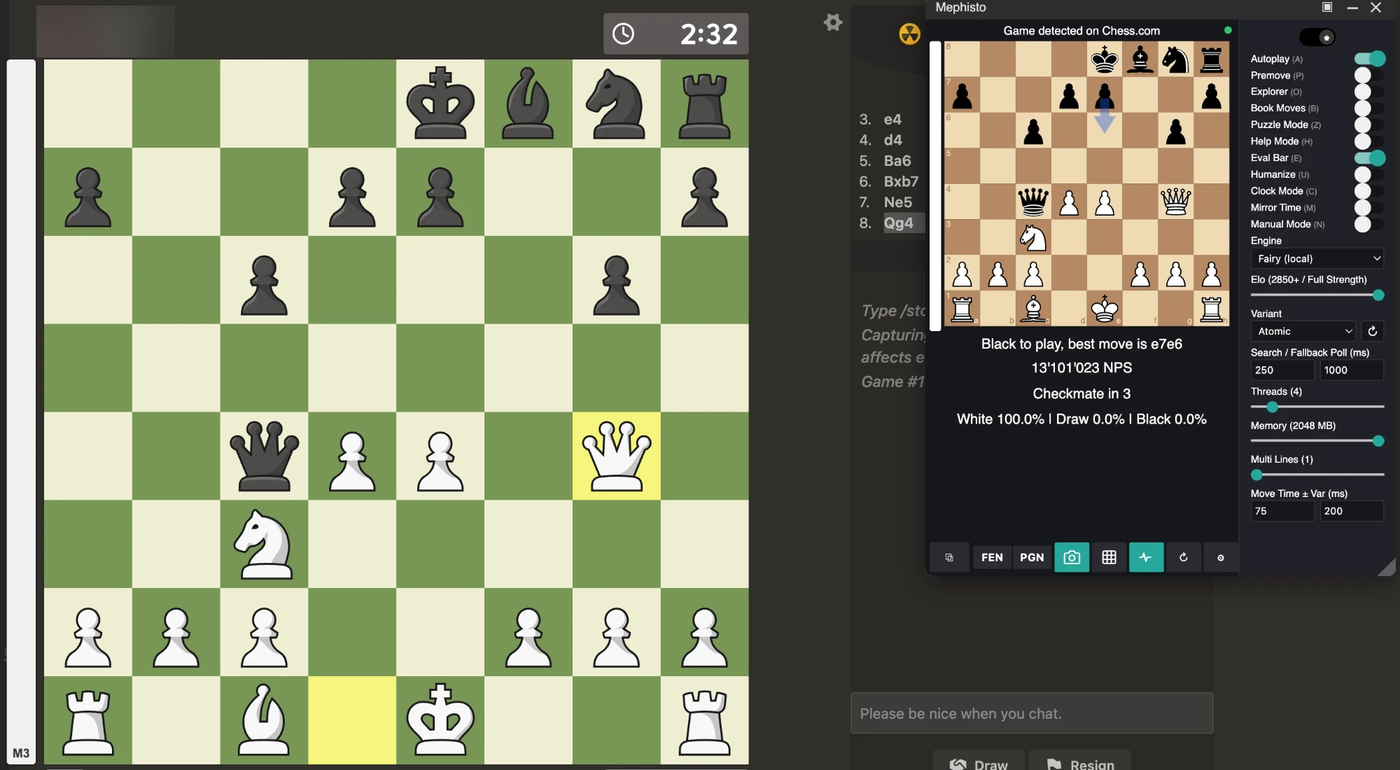
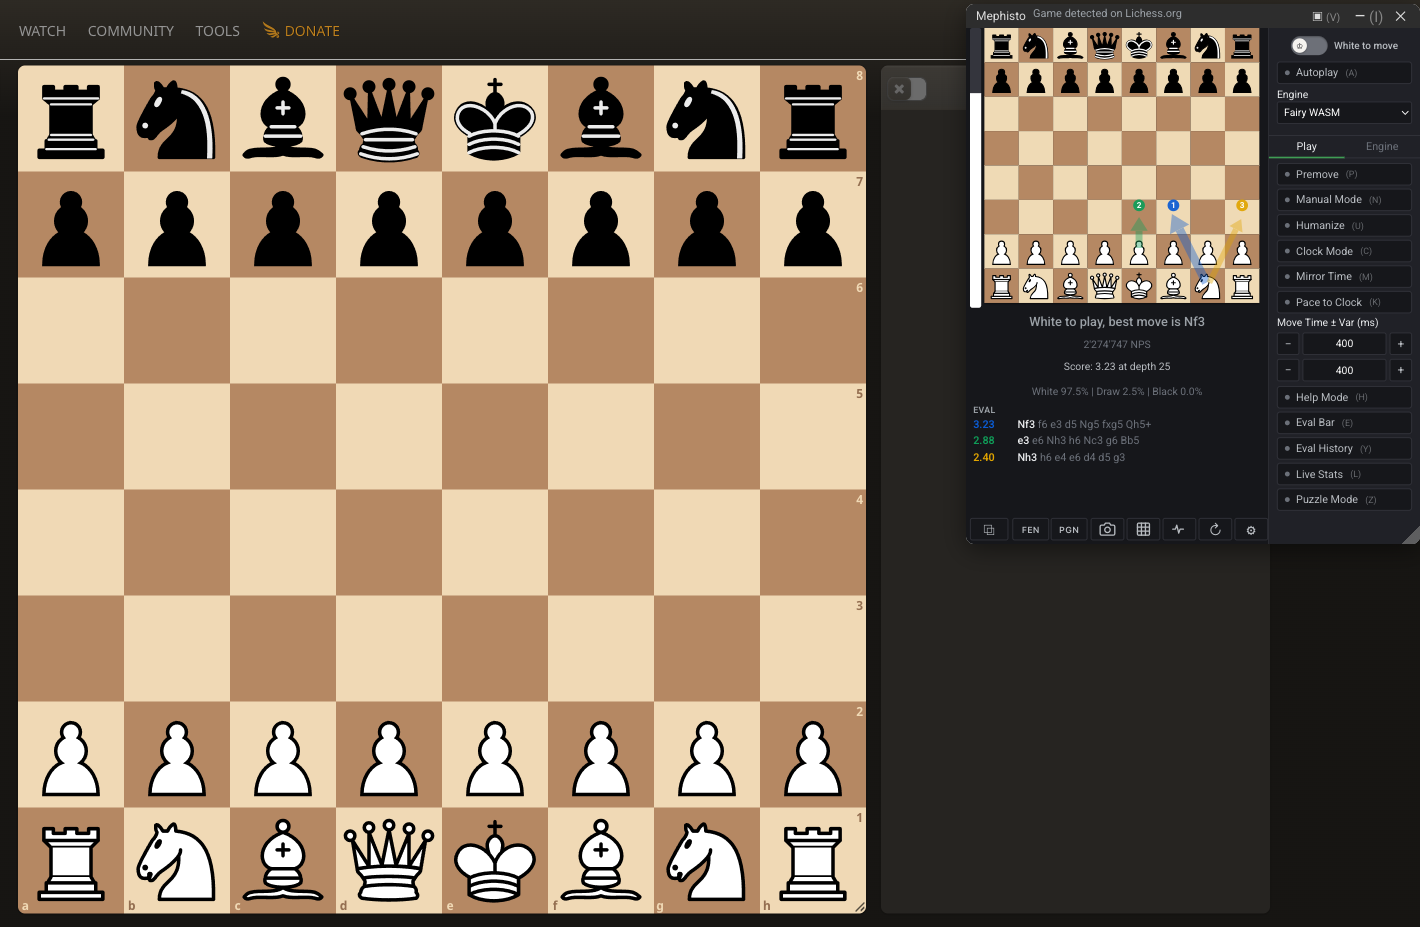
Correct the engine table, and refresh two screenshots
The Stockfish rows still described the lineup from before 3.1.308: "Stockfish dev
NNUE" is Stockfish 19, the small net is now 19's rather than 18's, and 18 is its
own entry kept so a review can be repeated against the engine that produced it.

The panel shots were from early August and 30 releases old. analysis-lines and
variants are re-taken from the running build; the hero shot now shows five
candidate lines with five arrows, which is what the board actually draws since
3.1.313. Every full-width image is now sized rather than shown at the reader's
full column width.

README.md: Stockfish 19 / 19 Small / 18 rows; every bare image becomes a sized img
docs/analysis-lines.png: re-taken, five lines and five arrows
docs/variants.png: re-taken on the current panel

Type: docs

diff --git a/README.md b/README.md
@@ -18,7 +18,7 @@ move on the board or plays it for you with human timing. It also reviews finishe
 
 Click the toolbar icon for a floating panel that stays open while you play.
 
-![Analysis with five candidate lines drawn on the board](docs/analysis-lines.png)
+<img src="docs/analysis-lines.png" alt="Analysis with five candidate lines drawn on the board" width="82%">
 
 [Fair play](#fair-play---read-this-first) · [Install](#install) · [Engines](#engines) · [Features](#features) ·
 [Sites](#supported-sites) · [Settings](#settings-reference) · [Footprint](#page-footprint) · [Roadmap](#roadmap)
@@ -106,8 +106,9 @@ entries are the exception, and they are opt-in.
 
 | Engine | Notes |
 | --- | --- |
-| **Stockfish dev NNUE** | Latest development build. Default. |
-| **Stockfish 18 / 18 Small NNUE** | Full dual-net build (large net ships split, stitched at load), or the lighter net. |
+| **Stockfish 19 NNUE** | The default. The full dual-net build; the large net ships split and is stitched at load. |
+| **Stockfish 19 Small NNUE** | The same engine on the small net - about 1 MB against 99, for a machine or a connection that cannot take the full one. |
+| **Stockfish 18 NNUE** | The previous mainline, kept so a review can be repeated against the engine that produced it. |
 | **Stockfish 11 HCE** | Classical eval, no NNUE - light and fast. |
 | **Fairy-Stockfish 14 NNUE** | Required for [variants](#variants); each has its own bundled net. |
 | **Maia-1** | The original Maia nets, one per rating band (**1100-1900**, plus **2200**). |
@@ -161,7 +162,7 @@ have nets but the bundled chess.js can't replay them, so the panel says so rathe
 
 <img src="docs/multiple-lines.png" alt="Three candidate lines, each with its own coloured arrow" width="49%"> <img src="docs/opening-explorer.png" alt="The opening explorer, with each book move drawn on the board" width="49%">
 
-![Reading a position straight off a YouTube video](docs/read-from-screen.png)
+<img src="docs/read-from-screen.png" alt="Reading a position straight off a YouTube video" width="70%">
 
 *Three candidate lines · the explorer's book moves · reading a position off a YouTube video, naming its
 least-confident squares.*
@@ -208,7 +209,7 @@ API. **Nothing leaves your machine** during the review - the search runs in the 
   mix is defined in exactly those bands, so counting them gives the mix that reproduces that player. Measured, rather
   than guessed at with sliders.
 
-![The game review page](docs/game-review.png)
+<img src="docs/game-review.png" alt="The game review page" width="70%">
 
 ### chess.com Game Review
 
@@ -318,7 +319,7 @@ free. Nothing about the software changed, the measurement did.
 
 ### Humanize
 
-![The move mix and move-quality thresholds, with live accuracy estimates](docs/humanize.png)
+<img src="docs/humanize.png" alt="The move mix and move-quality thresholds, with live accuracy estimates" width="70%">
 
 Seven shares set how often it plays the top move, a 2nd/3rd/4th line, an inaccuracy, a mistake or a blunder, with
 per-category centipawn thresholds and a live [Lichess accuracy](https://lichess.org/page/accuracy) estimate of the
@@ -338,7 +339,7 @@ shortens the *simulated* delay when the clock gets short, never lengthens it.
 
 <img src="docs/puzzle-database.png" alt="3999 - as high as the Lichess puzzle rating goes" width="49%"> <img src="docs/hotkeys.png" alt="The hotkeys page, each action rebindable" width="49%">
 
-![Hardest (+600) puzzles solved back to back, from the database rather than searched](docs/puzzle-database.gif)
+<img src="docs/puzzle-database.gif" alt="Hardest (+600) puzzles solved back to back, from the database rather than searched" width="70%">
 
 *3999 is the ceiling · every action rebindable · hardest (+600) puzzles back to back, from the database rather than
 searched ([full clip](docs/puzzle-database.mp4)).*
@@ -396,7 +397,7 @@ the position on Lichess, and an **engine health dot** shows whether a native hos
 
 ## Supported sites
 
-![TakeTakeTake, whose board is a WebGPU canvas with no DOM to scrape](docs/taketaketake.png)
+<img src="docs/taketaketake.png" alt="TakeTakeTake, whose board is a WebGPU canvas with no DOM to scrape" width="70%">
 
 *TakeTakeTake, whose board is a WebGPU canvas with no DOM to scrape.*
 
@@ -462,7 +463,7 @@ Chess.com's **4-player chess** (`/variants/4-player-chess`), analysed by
 **Tetrarch (4-player)** in the engine dropdown; the panel switches to it on a four-player board and back when you
 leave.
 
-![Four-player chess on Chess.com, with the 14x14 panel board and the suggested move drawn on it](docs/four-player.png)
+<img src="docs/four-player.png" alt="Four-player chess on Chess.com, with the 14x14 panel board and the suggested move drawn on it" width="70%">
 
 *Teams mode - the panel's own 14×14 board, rotated so you sit at the bottom, with the engine's move drawn on it.*
 
